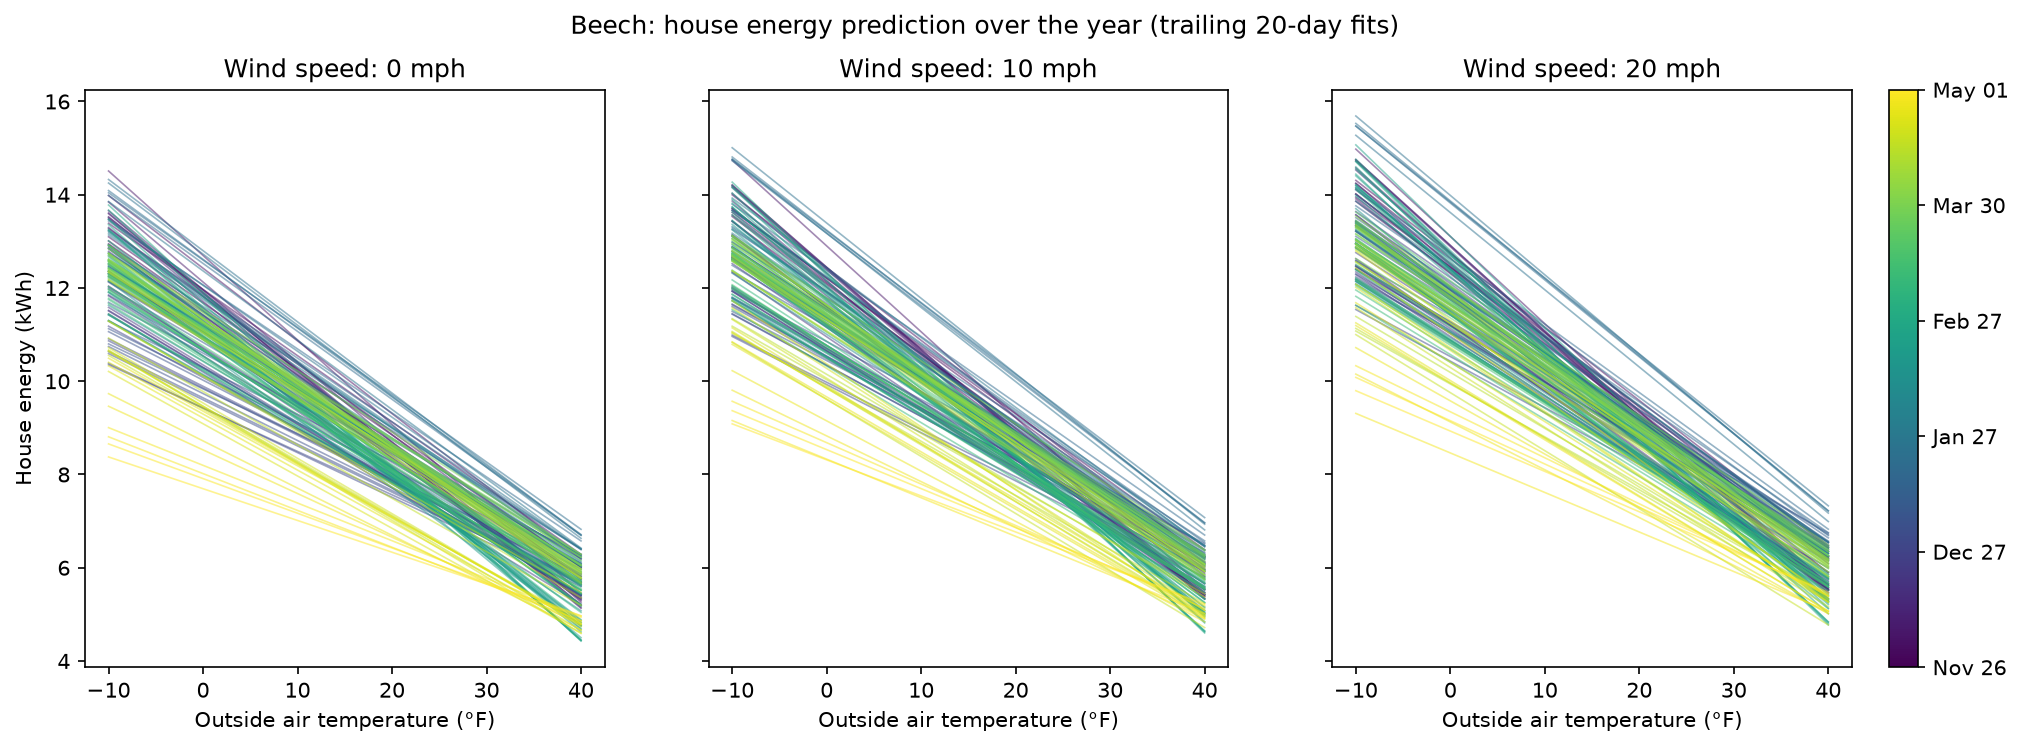
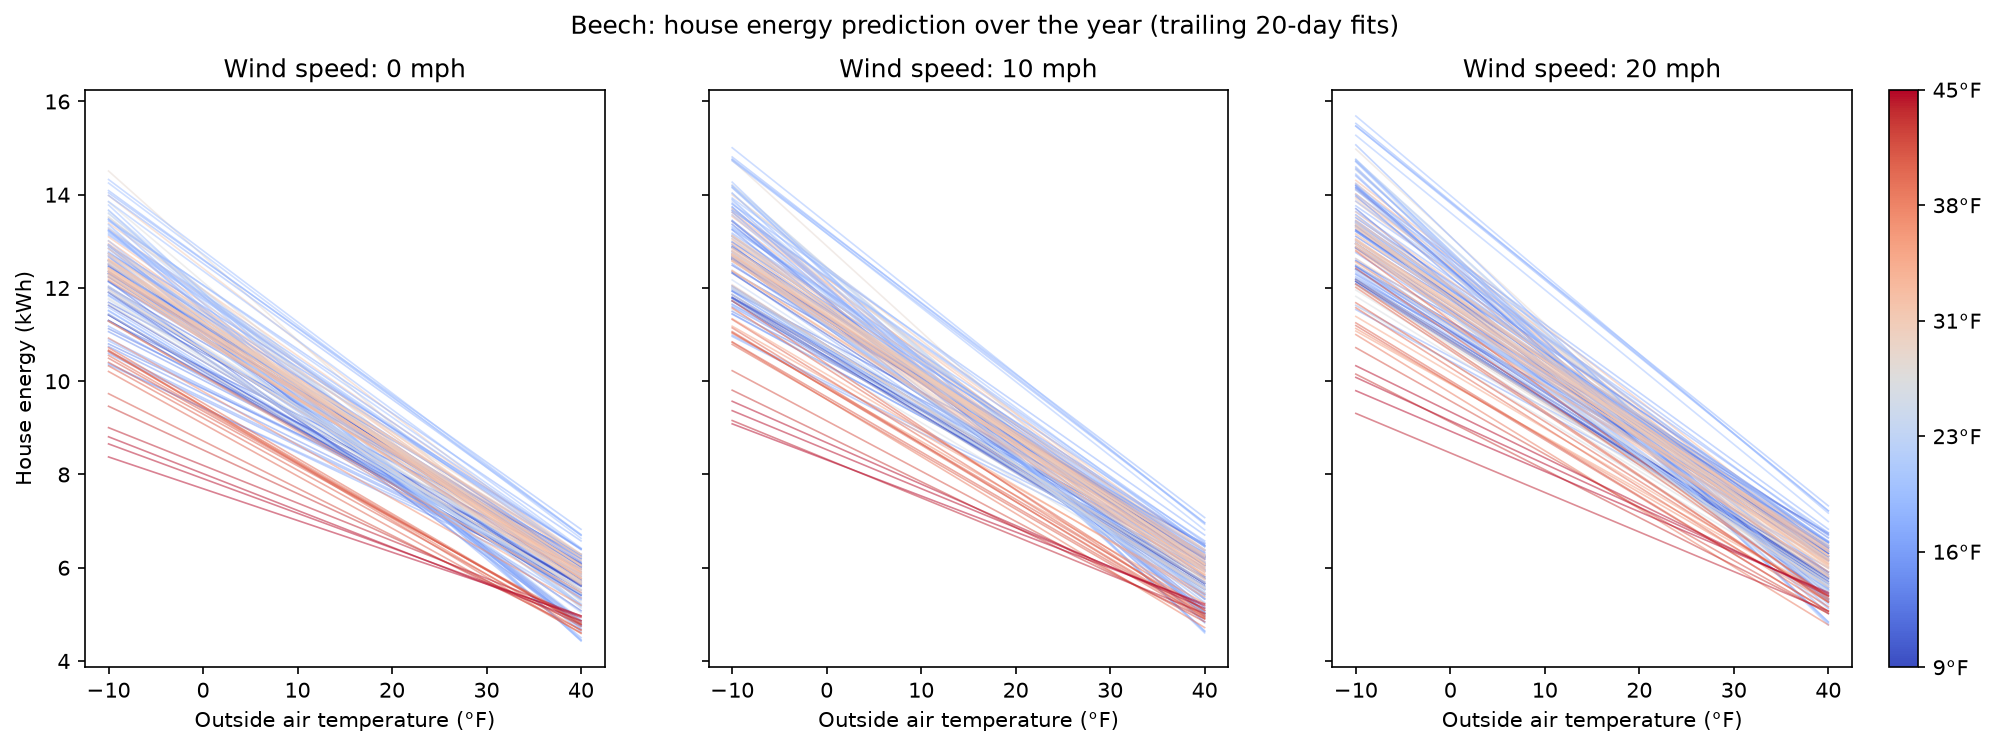
Color the plots by outdoor temperature instead of date
Curves take the mean oat_f of their fit window, scatter points take their own
hour's oat_f, both on one cold-to-warm scale. Fits made in comparable weather
now get comparable colors whenever in the season they happened, and a
temperature-dependent bias shows as a gradient off the 1:1 line.

diff --git a/plot_pred_from_params.py b/plot_pred_from_params.py
@@ -10,24 +10,29 @@ WIND_SPEEDS_MPH = [0, 10, 20]
 OAT_RANGE_F = np.linspace(-10, 40, 200)
 
 
-def _date_colors(days: list[pd.Timestamp]) -> tuple[np.ndarray, Normalize, object]:
-    """Viridis over the date range, so every figure shares one visual language."""
-    ordinals = np.array([pd.Timestamp(d).toordinal() for d in days])
-    return ordinals, Normalize(vmin=ordinals.min(), vmax=ordinals.max()), plt.cm.viridis
+def _oat_colors(oat_f) -> tuple[np.ndarray, Normalize, object]:
+    """Cold-to-warm over the outdoor temperature range, shared by every figure.
+
+    Coloring by oat_f rather than by date puts fits made in comparable weather in
+    comparable colors, whenever in the season they happened.
+    """
+    oat_f = np.asarray(oat_f, dtype=float)
+    return oat_f, Normalize(vmin=oat_f.min(), vmax=oat_f.max()), plt.cm.coolwarm
 
 
-def _date_colorbar(fig, axes, norm, cmap):
+def _oat_colorbar(fig, axes, norm, cmap):
     sm = ScalarMappable(norm=norm, cmap=cmap)
     cbar = fig.colorbar(sm, ax=axes, fraction=0.03, pad=0.02)
-    tick_ordinals = np.linspace(norm.vmin, norm.vmax, 6)
-    cbar.set_ticks(tick_ordinals)
-    cbar.set_ticklabels([pd.Timestamp.fromordinal(int(o)).strftime("%b %d") for o in tick_ordinals])
+    ticks = np.linspace(norm.vmin, norm.vmax, 6)
+    cbar.set_ticks(ticks)
+    cbar.set_ticklabels([f"{t:.0f}°F" for t in ticks])
     return cbar
 
 
 def plot_curves(
     house_parameters: list[HouseEnergyParams],
     fit_days: list[pd.Timestamp],
+    fit_oat_f: list[float],
     centers: dict[str, float],
     t_i_avg: float,
     prev_median: float,
@@ -35,7 +40,10 @@ def plot_curves(
     savepath=None,
     use_legend: bool = False
 ):
-    """One house_kwh_pred(oat) curve per fit day, in a panel per wind speed, colored by date.
+    """One house_kwh_pred(oat) curve per fit day, in a panel per wind speed.
+
+    Curves are colored by fit_oat_f, the mean outdoor temperature over the window
+    the fit was made on, so the color says what weather shaped the parameters.
 
     The model has seven features, so five of them have to be pinned before a
     curve against outdoor temperature exists at all. These curves are therefore
@@ -50,7 +58,7 @@ def plot_curves(
 
     Wind speed is already mph in the data, so the panels need no conversion.
     """
-    ordinals, norm, cmap = _date_colors(fit_days)
+    oat_values, norm, cmap = _oat_colors(fit_oat_f)
 
     fig, axes = plt.subplots(1, len(WIND_SPEEDS_MPH), figsize=(16, 5), sharey=True)
     for ax, ws in zip(axes, WIND_SPEEDS_MPH):
@@ -66,22 +74,22 @@ def plot_curves(
         }, columns=FEATURES)
         X = design_matrix(operating_point, centers)
 
-        for p, d, o in zip(house_parameters, fit_days, ordinals):
+        for p, d, o in zip(house_parameters, fit_days, oat_values):
             house_kwh_pred = X @ p.coefficients()
             ax.plot(
                 OAT_RANGE_F, house_kwh_pred, color=cmap(norm(o)),
                 alpha=0.9 if use_legend else 0.5,
                 linewidth=1.5 if use_legend else 0.8,
-                label=pd.Timestamp(d).strftime("%b %d") if use_legend else None
+                label=f"{pd.Timestamp(d).strftime('%b %d')} ({o:.0f}°F)" if use_legend else None
             )
         ax.set_title(f"Wind speed: {ws} mph")
         ax.set_xlabel("Outside air temperature (°F)")
     axes[0].set_ylabel("House energy (kWh)")
 
     if use_legend:
-        axes[-1].legend(title="Fit day")
+        axes[-1].legend(title="Fit day (window mean OAT)")
     else:
-        _date_colorbar(fig, axes, norm, cmap)
+        _oat_colorbar(fig, axes, norm, cmap)
 
     fig.suptitle(title)
 
@@ -92,25 +100,26 @@ def plot_curves(
 def plot_pred_vs_actual(
     predicted: np.ndarray,
     actual: np.ndarray,
-    hours: list[pd.Timestamp],
+    oat_f: np.ndarray,
     title: str,
     savepath=None,
 ):
     """Out-of-sample next-day predictions against what the house actually used.
 
-    Points are colored by date on the same viridis/date scale as plot_curves, so
-    seasonal drift in the fit shows up as a color gradient off the 1:1 line.
+    Points are colored by that hour's outdoor temperature, on the same cold-to-warm
+    scale as plot_curves, so a temperature-dependent bias shows up as a color
+    gradient off the 1:1 line.
     """
     predicted = np.asarray(predicted)
     actual = np.asarray(actual)
     errors = predicted - actual
 
-    ordinals, norm, cmap = _date_colors(hours)
+    oat_values, norm, cmap = _oat_colors(oat_f)
 
     fig, axes = plt.subplots(1, 2, figsize=(14, 6))
 
     ax = axes[0]
-    ax.scatter(actual, predicted, c=ordinals, cmap=cmap, norm=norm, s=8, alpha=0.6)
+    ax.scatter(actual, predicted, c=oat_values, cmap=cmap, norm=norm, s=8, alpha=0.6)
     limits = [0, float(max(actual.max(), predicted.max())) * 1.02]
     ax.plot(limits, limits, "k--", linewidth=1, label="1:1")
     ax.set_xlim(limits)
@@ -140,7 +149,7 @@ def plot_pred_vs_actual(
     ax.set_ylabel("Hours")
     ax.set_title("Error distribution")
 
-    _date_colorbar(fig, list(axes), norm, cmap)
+    _oat_colorbar(fig, list(axes), norm, cmap)
     fig.suptitle(title)
 
     if savepath is not None:

diff --git a/main.py b/main.py
@@ -34,14 +34,18 @@ print("(the intercept is the predicted energy at those typical conditions)")
 computer = HouseEnergyParamsComputer(centers=centers, scale_to_hp_kwh=SCALE_TO_HP_KWH)
 days = np.sort(df["day"].unique())
 fit_days = []
+fit_oat_f = []
 results: list[HouseEnergyParams] = []
-oos_hours = []
+oos_oat_f = []
 oos_pred = []
 oos_actual = []
 for i in range(N - 1, len(days)):
     window = days[i-N+1 : i+1]
     window_df = df[df["day"].isin(window)]
     fit_days.append(days[i])
+    # Mean outdoor temperature over the fit window: the weather the parameters
+    # were learned in, and what the plots color by.
+    fit_oat_f.append(float(window_df["oat_f"].mean()))
     params = computer.fit(window_df)
     results.append(params)
 
@@ -49,7 +53,7 @@ for i in range(N - 1, len(days)):
     # figure below shows what the fit is actually worth going forward.
     if i + 1 < len(days):
         next_df = df[df["day"] == days[i + 1]]
-        oos_hours.extend(next_df["hour_start"])
+        oos_oat_f.extend(next_df["oat_f"])
         oos_pred.extend(predict(params, next_df, centers))
         oos_actual.extend(next_df["dist_kwh"])
 
@@ -71,7 +75,7 @@ print(
 # setpoint, no sun, envelope in equilibrium, and sustained operation, which is what
 # the median prev stands for. See plot_curves' docstring.
 plot_curves(
-    results, fit_days, centers,
+    results, fit_days, fit_oat_f, centers,
     t_i_avg=float((0.5 * (df["T_i1_start"] + df["T_i2_start"])).median()),
     prev_median=float(df["prev"].median()),
     title=f"{HOUSE_ALIAS.capitalize()}: house energy prediction over the year (trailing {N}-day fits)",
@@ -79,7 +83,7 @@ plot_curves(
 )
 
 plot_pred_vs_actual(
-    oos_pred, oos_actual, oos_hours,
+    oos_pred, oos_actual, oos_oat_f,
     f"{HOUSE_ALIAS.capitalize()}: next-day predicted vs actual (trailing {N}-day fits)",
     savepath=RESULTS_DIR / f"{HOUSE_ALIAS}_pred_vs_actual_N{N}.png",
 )
@@ -117,9 +121,11 @@ for col in ["intercept", "dT", "gap1", "gap2"]:
 
 # Plot only the extreme-week days
 result_by_day = {pd.Timestamp(d): r for d, r in zip(fit_days, results)}
+oat_by_day = {pd.Timestamp(d): o for d, o in zip(fit_days, fit_oat_f)}
 extreme_sorted = sorted(extreme_days)
 plot_curves(
-    [result_by_day[d] for d in extreme_sorted], extreme_sorted, centers,
+    [result_by_day[d] for d in extreme_sorted], extreme_sorted,
+    [oat_by_day[d] for d in extreme_sorted], centers,
     t_i_avg=float((0.5 * (df["T_i1_start"] + df["T_i2_start"])).median()),
     prev_median=float(df["prev"].median()),
     title=f"{HOUSE_ALIAS.capitalize()}: extreme-week fit days (trailing {N}-day fits)",
